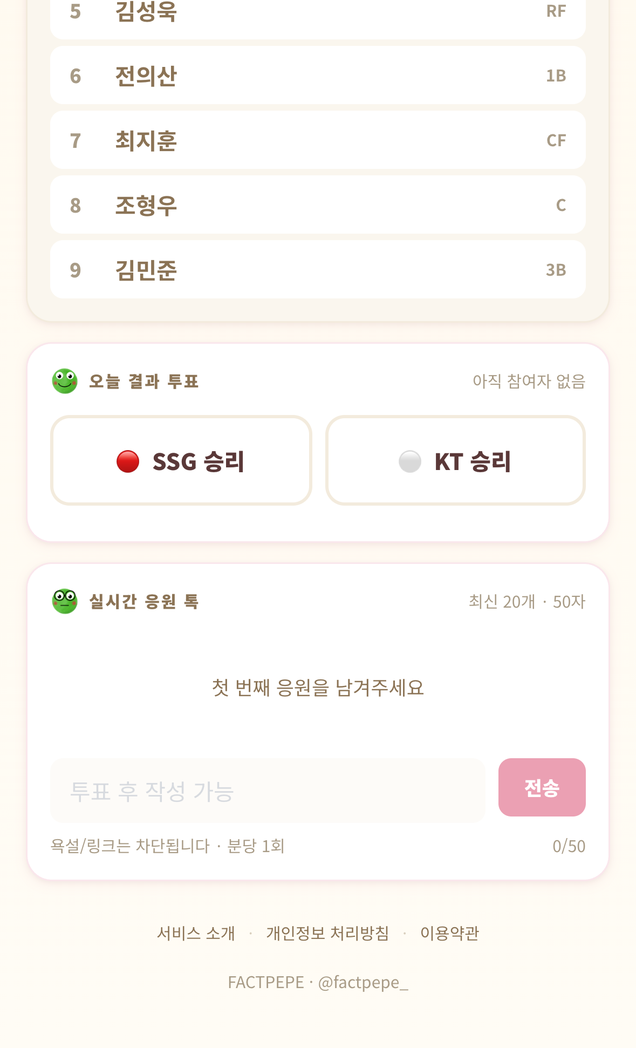
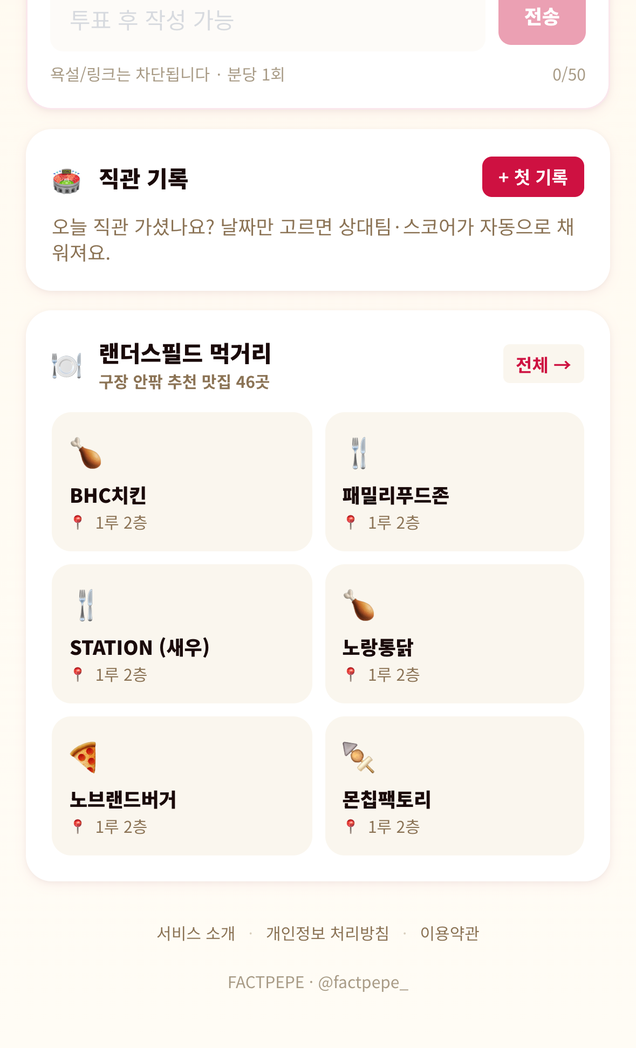
chore(toss): 제출용 스크린샷 4장 + 썸네일 재생성 (직관/먹거리 반영)
토스 콘솔 제출 자산 갱신. 새 UI(직관 기록 + 먹거리 + 카드 순서 변경)가
모두 노출되도록 캡처/생성 스크립트와 산출물 일괄 교체.

[새 스크립트]
- scripts/capture-screenshots.mjs:
  Puppeteer로 https://factpepe-v3.vercel.app/toss 캡처
  · 세로: 393px × 3x deviceScaleFactor 풀페이지
  · 가로: 1504×741 viewport
- scripts/crop-screenshots.py:
  풀페이지 PNG → 636×1048 세로 3장으로 균등 슬라이스
- scripts/build-thumbnail.py:
  1932×828 썸네일 PIL 생성. 왼쪽 SSG 레드 + 페페 3개,
  오른쪽 타이틀 + 7개 기능 chip

[새 산출물]
- toss-screen-v1.png (636×1048): 헤더 + 닉네임 + 분석 + 라인업 SP~7번
- toss-screen-v2.png (636×1048): 라인업 4~9 + 투표 + 응원톡 + 직관 시작
- toss-screen-v3.png (636×1048): 직관 + 먹거리 6개 + 푸터
- toss-screen-h1.png (1504×741): 전체 대시보드 데스크탑 뷰
- toss-thumbnail.png (1932×828): chip 7개 = 팩트 승률 / 자동 라인업
  / 1초 투표 / 직관 기록 / 먹거리 46곳 / 실시간 응원톡 / 적중률 뱃지

[검증]
- 모든 PNG 크기 토스 가이드와 정확히 일치
- 새 카드 배치 (분석→라인업→투표→응원톡→직관→먹거리) 반영 확인

diff --git a/scripts/build-thumbnail.py b/scripts/build-thumbnail.py
@@ -1,0 +1,177 @@
+#!/usr/bin/env python3
+"""
+토스 미니앱 제출용 썸네일 (1932 × 828) 생성.
+
+디자인:
+- 왼쪽 880px: SSG 레드 + 대각선 줄무늬 + 페페 캐릭터 (큰 1 + 작은 2)
+- 오른쪽: 크림 배경 + 타이틀 + 서브카피 + 7개 기능 chip
+"""
+import os
+from PIL import Image, ImageDraw, ImageFont
+
+ROOT = os.path.dirname(os.path.dirname(os.path.abspath(__file__)))
+PUBLIC = os.path.join(ROOT, 'public')
+OUT = os.path.join(PUBLIC, 'toss-thumbnail.png')
+
+W, H = 1932, 828
+LEFT_W = 880
+ACCENT = (206, 17, 65)        # #CE1141 SSG 레드
+CREAM = (255, 248, 235)       # #FFF8EB
+DARK = (26, 10, 10)           # #1a0a0a
+MUTED = (139, 115, 85)        # #8b7355
+TAG_BG = (252, 232, 240)      # 옅은 분홍 (불투명)
+WHITE_STRIPE = (255, 255, 255, 50)  # 줄무늬 반투명
+
+FONT_REG = '/System/Library/Fonts/AppleSDGothicNeo.ttc'
+FONT_BOLD = '/System/Library/Fonts/AppleSDGothicNeo.ttc'
+
+TITLE = '팩트페페'
+SUBTITLE = 'SSG 랜더스 팬을 위한 매일 데이터'
+SUB2 = '인천 야구의 모든 것 한 곳에'
+
+# 새 기능 강조 — 직관/먹거리 추가, 우선순위 7개
+TAGS = [
+    '⚾ 팩트 승률',
+    '📋 자동 라인업',
+    '🗳 1초 투표',
+    '🏟 직관 기록',
+    '🍽 먹거리 46곳',
+    '💬 응원톡',
+    '🏆 적중률 뱃지',
+]
+
+# 이모지는 PIL 기본 렌더링이 깨지므로 텍스트만으로 디자인
+TAGS_NOEMOJI = [
+    '팩트 승률',
+    '자동 라인업',
+    '1초 투표',
+    '직관 기록',         # NEW
+    '먹거리 46곳',       # NEW
+    '실시간 응원톡',
+    '적중률 뱃지',
+]
+
+
+def draw_diagonal_stripes(img, x0, y0, x1, y1, color=(255, 255, 255), alpha=18, gap=44, thick=8):
+    """RGBA 오버레이를 그려서 본 이미지에 합성."""
+    overlay = Image.new('RGBA', img.size, (0, 0, 0, 0))
+    d = ImageDraw.Draw(overlay)
+    w = x1 - x0
+    h = y1 - y0
+    c = (*color, alpha)
+    # 대각선: 좌상 → 우하 방향으로 -45도
+    for i in range(-h, w + h, gap):
+        d.line([(x0 + i, y0), (x0 + i - h, y0 + h)], fill=c, width=thick)
+    return Image.alpha_composite(img.convert('RGBA'), overlay).convert('RGB')
+
+
+def load_font(size, bold=True):
+    # AppleSDGothicNeo.ttc 는 collection: index 6 ≈ Bold, 4 ≈ SemiBold, 0 ≈ Regular
+    try:
+        return ImageFont.truetype(FONT_BOLD if bold else FONT_REG, size, index=6 if bold else 0)
+    except Exception:
+        return ImageFont.load_default()
+
+
+def main():
+    img = Image.new('RGB', (W, H), CREAM)
+    d = ImageDraw.Draw(img)
+
+    # ── 왼쪽 SSG 레드 패널 + 대각선 줄무늬 ──
+    d.rectangle([0, 0, LEFT_W, H], fill=ACCENT)
+    img = draw_diagonal_stripes(img, 0, 0, LEFT_W, H, color=(255, 255, 255), alpha=30, gap=44, thick=8)
+    d = ImageDraw.Draw(img)
+
+    # ── 페페 캐릭터 합성 ──
+    pepe_main_path = os.path.join(PUBLIC, 'pepe', 'pepe-happy.png')
+    pepe_small_path = os.path.join(PUBLIC, 'pepe', 'pepe-cool.png')
+    pepe_small2_path = os.path.join(PUBLIC, 'pepe', 'pepe-excited.png')
+
+    try:
+        # 메인 페페 — 왼쪽 중앙에 크게
+        pepe = Image.open(pepe_main_path).convert('RGBA')
+        size = 460
+        pepe = pepe.resize((size, size), Image.LANCZOS)
+        img_rgba = img.convert('RGBA')
+        img_rgba.paste(pepe, ((LEFT_W - size) // 2, (H - size) // 2 - 20), pepe)
+        img = img_rgba.convert('RGB')
+        d = ImageDraw.Draw(img)
+
+        # 작은 페페 2개 — 우하단 코너
+        for path, x, y, sz in [
+            (pepe_small_path, LEFT_W - 180, H - 200, 140),
+            (pepe_small2_path, LEFT_W - 320, H - 130, 100),
+        ]:
+            sp = Image.open(path).convert('RGBA').resize((sz, sz), Image.LANCZOS)
+            img_rgba = img.convert('RGBA')
+            img_rgba.paste(sp, (x, y), sp)
+            img = img_rgba.convert('RGB')
+            d = ImageDraw.Draw(img)
+    except Exception as e:
+        print(f'⚠  Pepe 합성 실패: {e}')
+
+    # ── 오른쪽 텍스트 영역 ──
+    text_x = LEFT_W + 80
+    text_max_w = W - text_x - 80
+
+    # 타이틀
+    title_font = load_font(120, bold=True)
+    d.text((text_x, 110), TITLE, fill=ACCENT, font=title_font)
+
+    # 가는 가로선 (브랜드 구분)
+    d.rectangle([text_x, 250, text_x + 90, 254], fill=ACCENT)
+
+    # 서브타이틀 1
+    sub1_font = load_font(46, bold=True)
+    d.text((text_x, 280), SUBTITLE, fill=DARK, font=sub1_font)
+
+    # 서브타이틀 2 (얇게)
+    sub2_font = load_font(34, bold=False)
+    d.text((text_x, 342), SUB2, fill=MUTED, font=sub2_font)
+
+    # ── 태그 chip 그리드 ──
+    chip_font = load_font(32, bold=True)
+    chip_y = 440
+    chip_h = 64
+    chip_pad_x = 26
+    chip_gap_x = 16
+    chip_gap_y = 18
+    cur_x = text_x
+    cur_y = chip_y
+
+    for label in TAGS_NOEMOJI:
+        # 텍스트 너비 측정
+        bbox = d.textbbox((0, 0), label, font=chip_font)
+        text_w = bbox[2] - bbox[0]
+        text_h = bbox[3] - bbox[1]
+        chip_w = text_w + chip_pad_x * 2
+
+        # 다음 줄로 넘어가기
+        if cur_x + chip_w > text_x + text_max_w:
+            cur_x = text_x
+            cur_y += chip_h + chip_gap_y
+
+        # 칩 그리기 (둥근 사각형)
+        d.rounded_rectangle(
+            [cur_x, cur_y, cur_x + chip_w, cur_y + chip_h],
+            radius=chip_h // 2,
+            fill=TAG_BG,
+        )
+        # 텍스트 (수직 중앙 정렬)
+        text_y = cur_y + (chip_h - text_h) // 2 - 4
+        d.text((cur_x + chip_pad_x, text_y), label, fill=ACCENT, font=chip_font)
+
+        cur_x += chip_w + chip_gap_x
+
+    # ── 푸터: factpepe · @factpepe_ ──
+    footer_font = load_font(26, bold=False)
+    footer_text = 'factpepe  ·  SSG 랜더스 팬 데이터  ·  @factpepe_'
+    d.text((text_x, H - 70), footer_text, fill=MUTED, font=footer_font)
+
+    img.save(OUT, optimize=True)
+    print(f'✅ {OUT}')
+    print(f'   크기: {W} × {H}')
+
+
+if __name__ == '__main__':
+    main()

diff --git a/scripts/crop-screenshots.py b/scripts/crop-screenshots.py
@@ -1,0 +1,82 @@
+#!/usr/bin/env python3
+"""
+풀페이지 모바일 스크린샷을 636×1048 세로 3장으로 크롭.
+
+Puppeteer가 캡처한 _full_portrait.png를 받아서:
+1. 화면 너비를 636으로 리사이즈 (deviceScaleFactor 3x → 1179 → 636 다운샘플)
+2. 토스 카드 경계에 맞춰 3개 세그먼트로 슬라이스
+   - v1: 헤더 + 닉네임 카드 + 분석 카드 + 라인업 일부
+   - v2: 라인업 나머지 + 투표 + 응원톡
+   - v3: 직관 기록 + 먹거리 + 회고
+3. 각 1048 높이로 리사이즈/크롭
+"""
+import os
+from PIL import Image
+
+ROOT = os.path.dirname(os.path.dirname(os.path.abspath(__file__)))
+PUBLIC = os.path.join(ROOT, 'public')
+SRC = os.path.join(PUBLIC, '_full_portrait.png')
+
+TARGET_W = 636
+TARGET_H = 1048
+
+def main():
+    if not os.path.exists(SRC):
+        print(f'❌ Source not found: {SRC}')
+        print('   먼저 node scripts/capture-screenshots.mjs 실행')
+        return
+
+    img = Image.open(SRC).convert('RGB')
+    w, h = img.size
+    print(f'📐 Source: {w} × {h}')
+
+    # 너비를 636으로 다운샘플
+    new_h = int(h * TARGET_W / w)
+    img = img.resize((TARGET_W, new_h), Image.LANCZOS)
+    print(f'   리사이즈: {TARGET_W} × {new_h}')
+
+    # 3장으로 균등 분할 - 세그먼트 시작점
+    # 헤더(고정) + 첫 카드부터 시작 → 3등분 슬라이드
+    if new_h < TARGET_H * 2:
+        print(f'⚠  페이지가 너무 짧음 ({new_h} < {TARGET_H * 2}). 카드 추가 후 재시도 권장.')
+        # 그래도 3장 시도: 시작점만 다르게
+        segments = [
+            (0, TARGET_H),
+            (max(0, (new_h - TARGET_H) // 2), max(0, (new_h - TARGET_H) // 2) + TARGET_H),
+            (max(0, new_h - TARGET_H), new_h),
+        ]
+    else:
+        # 균등 3분할 with 약간의 오버랩 방지
+        stride = (new_h - TARGET_H) // 2  # 각 세그먼트 시작점 사이 거리
+        segments = [
+            (0, TARGET_H),
+            (stride, stride + TARGET_H),
+            (new_h - TARGET_H, new_h),
+        ]
+
+    for i, (top, bot) in enumerate(segments, start=1):
+        # 안전 가드
+        top = max(0, top)
+        bot = min(new_h, bot)
+        crop = img.crop((0, top, TARGET_W, bot))
+        if crop.height < TARGET_H:
+            # 부족하면 흰 배경 패딩
+            canvas = Image.new('RGB', (TARGET_W, TARGET_H), '#FFF8EB')
+            canvas.paste(crop, (0, 0))
+            crop = canvas
+        out = os.path.join(PUBLIC, f'toss-screen-v{i}.png')
+        crop.save(out, optimize=True)
+        print(f'   ✓ v{i}: top={top} → {out}')
+
+    print('\n✅ 세로 3장 완료')
+    print('   - public/toss-screen-v1.png (상단)')
+    print('   - public/toss-screen-v2.png (중단)')
+    print('   - public/toss-screen-v3.png (하단)')
+
+    # 임시 파일 삭제
+    os.remove(SRC)
+    print(f'\n🧹 임시 파일 정리: {SRC}')
+
+
+if __name__ == '__main__':
+    main()
